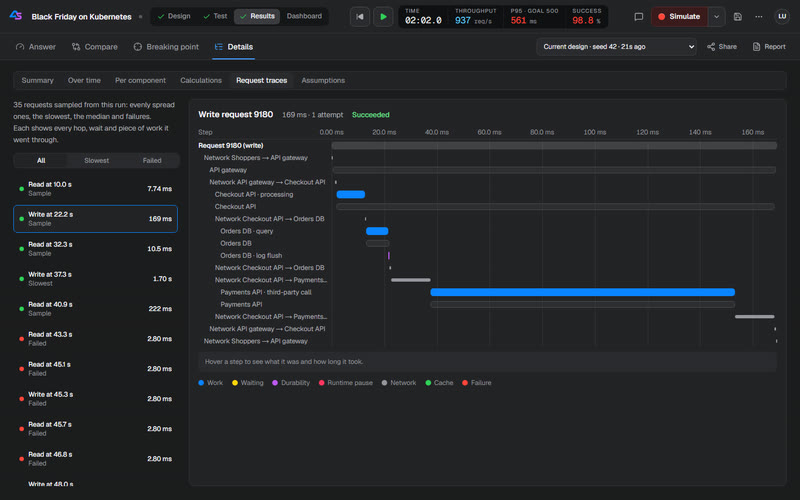
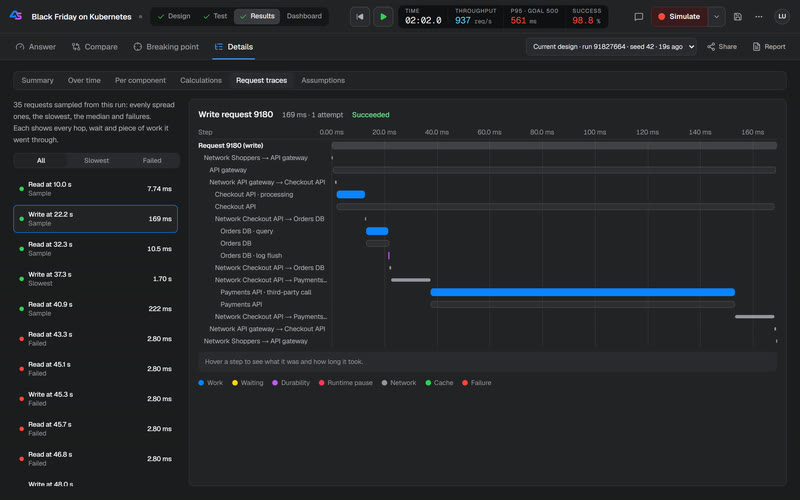
fix(web): show the run picker's whole label in Results and the Dashboard
Since fc46aebc a run's label names its short id ("Current design · run 3f9a2c1d · seed 42 · 43s
ago"). The picker, capped at 18rem, cut it off mid-word at common desktop widths ("· 12s a"), in
the app and in the README's and archsim.io's screenshots.

The picker is now as wide as the label of the run it shows, up to 28rem, which fits the design's
label and the longest template scenario's. A longer label ends in an ellipsis, which Chromium
draws inside a native select, and stays whole in the picker's tooltip; the picker is named "Run"
for assistive technology, and its unused label prop goes. In a crowded header the picker is the
one control that gives way: at 1024 px a long label wrapped "Breaking point" and pushed Report
off-screen, and during a Dashboard replay it wrapped "Whole run". The Results tabs and the
Dashboard's time range, icon buttons and replay controls now keep their width.

Retake the screenshots that show the picker and the demo GIF, and editor-results, whose Checkout
API card now shows the autoscaler's 9 pods (acb830c8). The alt text follows the numbers that
changed: 9 pods, a CPU cap of 928 req/s on Orders DB, 28 of 42 illustrative inputs.

diff --git a/apps/web/e2e/run-picker.spec.ts b/apps/web/e2e/run-picker.spec.ts
@@ -1,0 +1,142 @@
+/**
+ * The run picker in the Results and Dashboard headers. At common desktop widths it shows the whole
+ * label of the run it shows, "Current design · run 3f9a2c1d · seed 42 · 43s ago". A label too long
+ * for it ends in an ellipsis and keeps its full text in a tooltip. In a header too narrow for
+ * every control, the picker gives way: the others keep their whole width, inside the window.
+ */
+import { type APIRequestContext, expect, type Locator, type Page, test } from "@playwright/test";
+
+const LONG_LABEL = "Black Friday at five times the traffic, with the payments provider slowed down and the catalog cache cold";
+const HEADERS = ["decide", "dashboard"] as const;
+
+interface FinishedRun {
+  projectId: string;
+  runId: string;
+}
+
+/** A Black Friday project with one finished run of its design, under `label` if one is given. */
+async function projectWithRun(request: APIRequestContext, label?: string): Promise<FinishedRun> {
+  const created = await request.post("/api/v1/projects", { data: { exampleId: "black-friday-kubernetes" } });
+  expect(created.status()).toBe(201);
+  const projectId = (await created.json()).id as string;
+  const run = await request.post(`/api/v1/projects/${projectId}/runs`, { data: label ? { label } : {} });
+  expect(run.status()).toBe(202);
+  const runId = (await run.json()).id as string;
+  await expect
+    .poll(async () => (await (await request.get(`/api/v1/runs/${runId}`)).json()).status, { timeout: 60_000, intervals: [500] })
+    .toBe("succeeded");
+  return { projectId, runId };
+}
+
+let designRun: Promise<FinishedRun> | null = null;
+let longRun: Promise<FinishedRun> | null = null;
+
+async function openProject(page: Page, projectId: string, width: number) {
+  await page.setViewportSize({ width, height: 900 });
+  await page.addInitScript(() => {
+    try {
+      localStorage.setItem("archsim-tour-v1", "1");
+    } catch {
+      /* storage unavailable */
+    }
+  });
+  await page.goto(`/projects/${projectId}`);
+  await expect(page.getByTestId("transport-lcd")).not.toHaveAttribute("aria-label", "No run yet");
+}
+
+/** The run picker in a workspace's header, once that workspace is open. */
+async function runPicker(page: Page, key: (typeof HEADERS)[number]): Promise<Locator> {
+  await page.getByTestId(`workspace-${key}`).filter({ visible: true }).click();
+  return page.getByRole("combobox", { name: "Run", exact: true });
+}
+
+/** How wide a control is, how wide it would be if nothing squeezed it, and where it ends. */
+function widths(control: Locator): Promise<{ shown: number; needed: number; right: number }> {
+  return control.evaluate((el: HTMLElement) => {
+    const { width: shown, right } = el.getBoundingClientRect();
+    const style = el.style.cssText;
+    el.style.flexShrink = "0";
+    el.style.maxWidth = "none";
+    const needed = el.getBoundingClientRect().width;
+    el.style.cssText = style;
+    return { shown, needed, right };
+  });
+}
+
+/** Each control keeps its whole width and ends inside the window. */
+async function expectWhole(controls: Locator[], width: number) {
+  for (const control of controls) {
+    const name = (await control.getAttribute("aria-label")) ?? (await control.innerText());
+    const { shown, needed, right } = await widths(control);
+    expect(shown, `${name} keeps its whole width`).toBeGreaterThanOrEqual(needed - 0.5);
+    expect(right, `${name} ends inside the window`).toBeLessThanOrEqual(width);
+  }
+}
+
+for (const width of [1280, 1440]) {
+  test(`at ${width} px the run picker shows the whole label of its run`, async ({ page }) => {
+    designRun ??= projectWithRun(page.request);
+    const { projectId, runId } = await designRun;
+    await openProject(page, projectId, width);
+
+    for (const key of HEADERS) {
+      const picker = await runPicker(page, key);
+
+      await expect(picker).toHaveValue(runId);
+      await expect(picker).toHaveAttribute("title", new RegExp(`^Current design · run ${runId.slice(0, 8)} · seed \\d+ · `));
+      const { shown, needed } = await widths(picker);
+      expect(shown, `${key}: the picker has room for its whole label`).toBeGreaterThanOrEqual(needed - 0.5);
+    }
+  });
+}
+
+test("a label too long for the run picker ends in an ellipsis and keeps its full text in a tooltip", async ({ page }) => {
+  longRun ??= projectWithRun(page.request, LONG_LABEL);
+  const { projectId, runId } = await longRun;
+  await openProject(page, projectId, 1280);
+
+  for (const key of HEADERS) {
+    const picker = await runPicker(page, key);
+
+    await expect(picker).toHaveValue(runId);
+    await expect(picker).toHaveAttribute("title", new RegExp(`^${LONG_LABEL} · run ${runId.slice(0, 8)} · seed \\d+ · `));
+    await expect(picker).toHaveCSS("text-overflow", "ellipsis");
+    const { shown, needed } = await widths(picker);
+    expect(shown, `${key}: the label is cut short`).toBeLessThan(needed);
+  }
+});
+
+test("at 1024 px the run picker gives way, and every other control in its header stays whole", async ({ page }) => {
+  const width = 1024;
+  longRun ??= projectWithRun(page.request, LONG_LABEL);
+  const { projectId } = await longRun;
+  await openProject(page, projectId, width);
+
+  await runPicker(page, "decide");
+  const results = page.getByRole("tablist", { name: "Results" });
+  await expectWhole(
+    [
+      ...(await results.getByRole("tab").all()),
+      results.getByRole("button", { name: "Share", exact: true }),
+      results.getByRole("button", { name: "Report", exact: true }),
+    ],
+    width,
+  );
+
+  // a replay adds its LIVE badge and clock to the Dashboard's header
+  await runPicker(page, "dashboard");
+  const dashboard = page.getByRole("heading", { name: "Dashboard", exact: true }).locator("xpath=..");
+  await dashboard.getByRole("radio", { name: "1×", exact: true }).click();
+  await dashboard.getByRole("button", { name: "Replay", exact: true }).click();
+  await expect(dashboard.getByRole("status", { name: "Replaying live" })).toBeVisible();
+  await expectWhole(
+    [
+      dashboard.getByRole("button", { name: "Time range" }),
+      dashboard.getByRole("button", { name: "Zoom out", exact: true }),
+      dashboard.getByRole("button", { name: "Reset to the whole run" }),
+      dashboard.getByRole("button", { name: "Pause replay" }),
+      dashboard.getByRole("button", { name: "Stop replay" }),
+    ],
+    width,
+  );
+});

diff --git a/apps/web/src/components/dashboard/DashboardHeader.tsx b/apps/web/src/components/dashboard/DashboardHeader.tsx
@@ -32,7 +32,7 @@ function IconButton({ label, onClick, disabled, children }: { label: React.React
         onClick={onClick}
         disabled={disabled}
         aria-label={typeof label === "string" ? label : undefined}
-        className="flex size-8 items-center justify-center rounded-md border border-line bg-surface text-ink-2 transition-colors hover:border-line-strong hover:text-ink disabled:pointer-events-none disabled:opacity-40 [&_svg]:size-4"
+        className="flex size-8 shrink-0 items-center justify-center rounded-md border border-line bg-surface text-ink-2 transition-colors hover:border-line-strong hover:text-ink disabled:pointer-events-none disabled:opacity-40 [&_svg]:size-4"
       >
         {children}
       </button>
@@ -61,7 +61,7 @@ function RangePicker() {
       <MenuTrigger asChild>
         <button
           type="button"
-          className="flex h-8 items-center gap-2 rounded-md border border-line bg-surface px-2.5 text-[13px] text-ink transition-colors hover:border-line-strong data-[state=open]:border-line-strong"
+          className="flex h-8 shrink-0 items-center gap-2 rounded-md border border-line bg-surface px-2.5 text-[13px] text-ink transition-colors hover:border-line-strong data-[state=open]:border-line-strong"
           aria-label="Time range"
         >
           <Clock className="size-3.5 text-ink-3" />
@@ -183,7 +183,7 @@ export function DashboardHeader({ runId, endS, running }: { runId: string; endS:
       <LayoutDashboard className="size-4 text-accent" aria-hidden />
       <h2 className="mr-1 text-[14px] font-semibold tracking-[-0.01em] text-ink">Dashboard</h2>
       <span className="h-5 w-px bg-line" aria-hidden />
-      <RunPicker value={runId} onChange={pickRun} label="" />
+      <RunPicker value={runId} onChange={pickRun} />
       <RangePicker />
       <IconButton label="Zoom out" onClick={zoomOut} disabled={!zoomed}>
         <ZoomOut />
@@ -191,7 +191,7 @@ export function DashboardHeader({ runId, endS, running }: { runId: string; endS:
       <IconButton label="Reset to the whole run" onClick={() => setRange(null)} disabled={!zoomed}>
         <RotateCcw />
       </IconButton>
-      <div className="ml-auto flex items-center gap-2">
+      <div className="ml-auto flex shrink-0 items-center gap-2">
         {running && <RunProgressPill run={running} />}
         <ReplayControl endS={endS} />
       </div>

diff --git a/apps/web/src/components/decide/shared.tsx b/apps/web/src/components/decide/shared.tsx
@@ -154,25 +154,29 @@ export function useDecideRun(): { run: Run | null; report: Report | null } {
   return { run, report };
 }
 
-/** Select which succeeded run a section shows. */
-export function RunPicker({ value, onChange, label = "Run" }: { value: string | null; onChange: (id: string) => void; label?: string }) {
+/**
+ * Select which succeeded run a section shows. It is as wide as the label of the run it shows, up
+ * to 28rem, and gives way first in a crowded header; a label it cannot fit ends in an ellipsis
+ * and stays whole in its tooltip.
+ */
+export function RunPicker({ value, onChange }: { value: string | null; onChange: (id: string) => void }) {
   const runs = useSucceededRuns();
   if (!runs.length) return null;
+  const shown = runs.find((r) => r.id === value);
   return (
-    <label className="flex items-center gap-2 font-mono text-xs text-ink-3">
-      {label && <span>{label}</span>}
-      <select
-        value={value ?? ""}
-        onChange={(e) => onChange(e.target.value)}
-        className="h-8 max-w-72 rounded-md border border-line bg-surface-2 px-2 font-mono text-xs text-ink hover:border-line-strong focus-visible:border-accent focus-visible:outline-none"
-      >
-        {runs.map((r) => (
-          <option key={r.id} value={r.id}>
-            {runOptionText(r)}
-          </option>
-        ))}
-      </select>
-    </label>
+    <select
+      aria-label="Run"
+      title={shown && runOptionText(shown)}
+      value={value ?? ""}
+      onChange={(e) => onChange(e.target.value)}
+      className="field-sizing-content h-8 min-w-0 max-w-md truncate rounded-md border border-line bg-surface-2 px-2 font-mono text-xs text-ink hover:border-line-strong focus-visible:border-accent focus-visible:outline-none"
+    >
+      {runs.map((r) => (
+        <option key={r.id} value={r.id}>
+          {runOptionText(r)}
+        </option>
+      ))}
+    </select>
   );
 }
 

diff --git a/apps/web/src/components/decide/shared.test.tsx b/apps/web/src/components/decide/shared.test.tsx
@@ -1,6 +1,8 @@
+import { render, screen } from "@testing-library/react";
 import { describe, expect, it } from "vitest";
 import type { Run } from "@/lib/types";
-import { runOptionText } from "./shared";
+import { useRuns } from "@/store/runs";
+import { RunPicker, runOptionText } from "./shared";
 
 const run = (id: string, patch: Partial<Run> = {}) =>
   ({ id, label: "Current design", scenarioName: null, seed: 42, mode: "full", createdAt: new Date(Date.now() - 43_000).toISOString(), ...patch }) as Run;
@@ -18,5 +20,16 @@ describe("a run as a run picker lists it", () => {
     expect(runOptionText(run("aaaa1111bbbb", { label: null, scenarioName: "1 API replica", mode: "sampled" }))).toMatch(
       /^1 API replica · run aaaa1111 · seed 42 · estimated · /,
     );
+  });
+});
+
+describe("the run picker", () => {
+  it("is named Run and keeps the whole label of the run it shows in a tooltip", () => {
+    const shown = run("3f9a2c1d00000000000000000000aaaa", { status: "succeeded", label: "Black Friday at five times the traffic" });
+    useRuns.setState({ runs: [run("77b0e41200000000000000000000bbbb", { status: "succeeded" }), shown] });
+
+    render(<RunPicker value={shown.id} onChange={() => {}} />);
+
+    expect(screen.getByRole("combobox", { name: "Run" })).toHaveAttribute("title", runOptionText(shown));
   });
 });

diff --git a/apps/web/src/components/decide/DecideWorkspace.tsx b/apps/web/src/components/decide/DecideWorkspace.tsx
@@ -169,7 +169,7 @@ export function DecideWorkspace() {
               aria-selected={active}
               onClick={() => setSection(t.key)}
               className={cn(
-                "relative flex h-full items-center gap-2 px-3 text-sm font-medium transition-colors after:absolute after:inset-x-2 after:bottom-0 after:h-0.5 after:rounded-full",
+                "relative flex h-full shrink-0 items-center gap-2 px-3 text-sm font-medium transition-colors after:absolute after:inset-x-2 after:bottom-0 after:h-0.5 after:rounded-full",
                 active ? "text-ink after:bg-accent" : "text-ink-3 hover:text-ink after:bg-transparent",
               )}
             >
@@ -179,8 +179,8 @@ export function DecideWorkspace() {
             </button>
           );
         })}
-        <div className="ml-auto flex items-center gap-2">
-          <RunPicker value={run?.id ?? null} onChange={pickRun} label="" />
+        <div className="ml-auto flex min-w-0 items-center gap-2">
+          <RunPicker value={run?.id ?? null} onChange={pickRun} />
           <ShareButton />
           <Button size="sm" variant={section === "report" ? "soft" : "ghost"} onClick={() => setSection("report")}>
             <FileText /> Report

diff --git a/docs/features.md b/docs/features.md
@@ -25,7 +25,7 @@ example adding API servers behind a lone Clients box.
 
 ## Design: draw it with real technologies
 
-![The Design workspace in the light theme: the Black Friday diagram with Orders DB selected; the side panel shows its technology (PostgreSQL), how it did in the last run (2% busy, CPU caps it at 2,404 req/s, replica lag up to 18.3 ms), its settings and its resources sized as a real db.t4g.xlarge at $0.26 an hour (AWS us-east-1 prices of 2026-10-28), with the chaos pads below the canvas](images/build.jpg)
+![The Design workspace in the light theme: the Black Friday diagram with Orders DB selected; the side panel shows its technology (PostgreSQL), how it did in the last run (2% busy, CPU 16% busy with its busiest instance at 33%, CPU caps it at 928 req/s, replica lag up to 18.3 ms), its settings and its resources sized as a real db.t4g.xlarge at $0.26 an hour (AWS us-east-1 prices of 2026-10-28), with the chaos pads below the canvas](images/build.jpg)
 
 **A parts library with each technology's logo** and a search box: relational (PostgreSQL, MySQL,
 SQL Server, distributed SQL), document (MongoDB replica sets and sharded clusters), wide-column
@@ -101,7 +101,7 @@ StatefulSets) or Mermaid, as reviewed starting points.
 
 ## Test: traffic, failures and replay
 
-![The Test workspace paused at 103.3 s of the Black Friday on Kubernetes ramp (300 → 1,500 req/s): Checkout API has scaled out to 3 pods, link labels show live request rates, the timeline below shows the ramp, events, latency, failures and throughput per part, and the test plan reports that the design did not hold up: p95 561 ms against the 500 ms objective and 98.8% availability against 99.5%](images/editor-results.jpg)
+![The Test workspace paused at 103.3 s of the Black Friday on Kubernetes ramp (300 → 1,500 req/s): Checkout API, autoscaling between 3 and 14 replicas, has scaled out to 9 pods, link labels show live request rates, the timeline below shows the ramp, events, latency, failures and throughput per part, and the test plan reports that the design did not hold up: p95 561 ms against the 500 ms objective and 98.8% availability against 99.5%](images/editor-results.jpg)
 
 - **One test plan.** The Test plan panel holds the last result and one plan card with three rows:
   Traffic, Must stay true (your objectives) and Failures. "Add failure" offers quick tests
@@ -118,7 +118,7 @@ StatefulSets) or Mermaid, as reviewed starting points.
 
 ## Results: answer, compare, breaking point, details
 
-![Results → Answer in the light theme: "No, it doesn't hold up." Latency p95 561 ms against at most 500 ms and availability 98.8% against at least 99.5%, a note that p95 is within 15% of the objective from one seed with a Check 5 seeds button, Checkout API as the primary bottleneck, "Low confidence: 29 of 42 inputs are illustrative defaults" with how to raise it and the measured accuracy, then 937 req/s handled, p95 561 ms (608 ms counting failures as timeouts), 98.8% success and $844 a month at AWS prices, the queueing-formula estimate, a Review panel and the first findings](images/scorecard.jpg)
+![Results → Answer in the light theme: "No, it doesn't hold up." Latency p95 561 ms against at most 500 ms and availability 98.8% against at least 99.5%, a note that p95 is within 15% of the objective from one seed with a Check 5 seeds button, Checkout API as the primary bottleneck, "Low confidence: 28 of 42 inputs are illustrative defaults" with how to raise it and the measured accuracy, then 937 req/s handled, p95 561 ms (608 ms counting failures as timeouts), 98.8% success and $844 a month at AWS prices, the queueing-formula estimate, a Review panel and the first findings](images/scorecard.jpg)
 
 - **Answer**: one sentence ("Yes, it holds up." or "No, it doesn't hold up." with the objective
   that failed and the bottleneck), the key numbers, what to fix first, objective tiles with

diff --git a/README.md b/README.md
@@ -59,7 +59,7 @@
 <table>
 <tr>
 <td width="50%" valign="top"><img src="docs/images/build.jpg" alt="Design workspace: the Black Friday diagram with a PostgreSQL database selected; the inspector shows its replica lag, settings and a real db.t4g.xlarge instance at its hourly price" width="380"><br><b>Design with real technologies</b><br>Pick PostgreSQL, Kafka or a Go service on Kubernetes, and see how it behaves and what it costs.</td>
-<td width="50%" valign="top"><img src="docs/images/editor-results.jpg" alt="Test workspace: a Kubernetes checkout service scaled to 3 pods mid-ramp, live request rates on the links, and a timeline of traffic, events, latency and failures beside a test plan that did not hold up" width="380"><br><b>Test with traffic and failures</b><br>Ramp the load, drop a cache, slow a database, then scrub the replay to any second.</td>
+<td width="50%" valign="top"><img src="docs/images/editor-results.jpg" alt="Test workspace: a Kubernetes checkout service autoscaled from 3 to 9 pods mid-ramp, live request rates on the links, and a timeline of traffic, events, latency and failures beside a test plan that did not hold up" width="380"><br><b>Test with traffic and failures</b><br>Ramp the load, drop a cache, slow a database, then scrub the replay to any second.</td>
 </tr>
 <tr>
 <td width="50%" valign="top"><img src="docs/images/scorecard.jpg" alt="Results Answer tab: No, it doesn't hold up, with p95 561 ms against a 500 ms objective, availability 98.8% against 99.5%, the primary bottleneck, a confidence note and the monthly cost" width="380"><br><b>Get an answer to test</b><br>How it fares under your assumptions: the objective that failed, the likely bottleneck, what to try first and the bill.</td>

diff --git a/CHANGELOG.md b/CHANGELOG.md
@@ -8,6 +8,16 @@ for when that version changes.
 
 ## [Unreleased]
 
+### Fixed
+
+- **The run picker in Results and on the Dashboard shows the whole label of its run.** Since a
+  run's label names its short id ("Current design · run 3f9a2c1d · seed 42 · 43s ago"), the picker
+  cut it off mid-word at common desktop widths ("· 12s a"), in the app and in the README's and
+  archsim.io's screenshots. It is now as wide as the label of the run it shows, up to 28rem; a
+  longer label ends in an ellipsis and stays whole in its tooltip, and in a crowded header the
+  picker gives way while the other controls keep their width. The screenshots that show it, and
+  the demo GIF, are retaken.
+
 ## [1.4.0] - 2026-11-25
 
 Hyperthreads counted by default, the second held-out accuracy campaign, and results presented as
